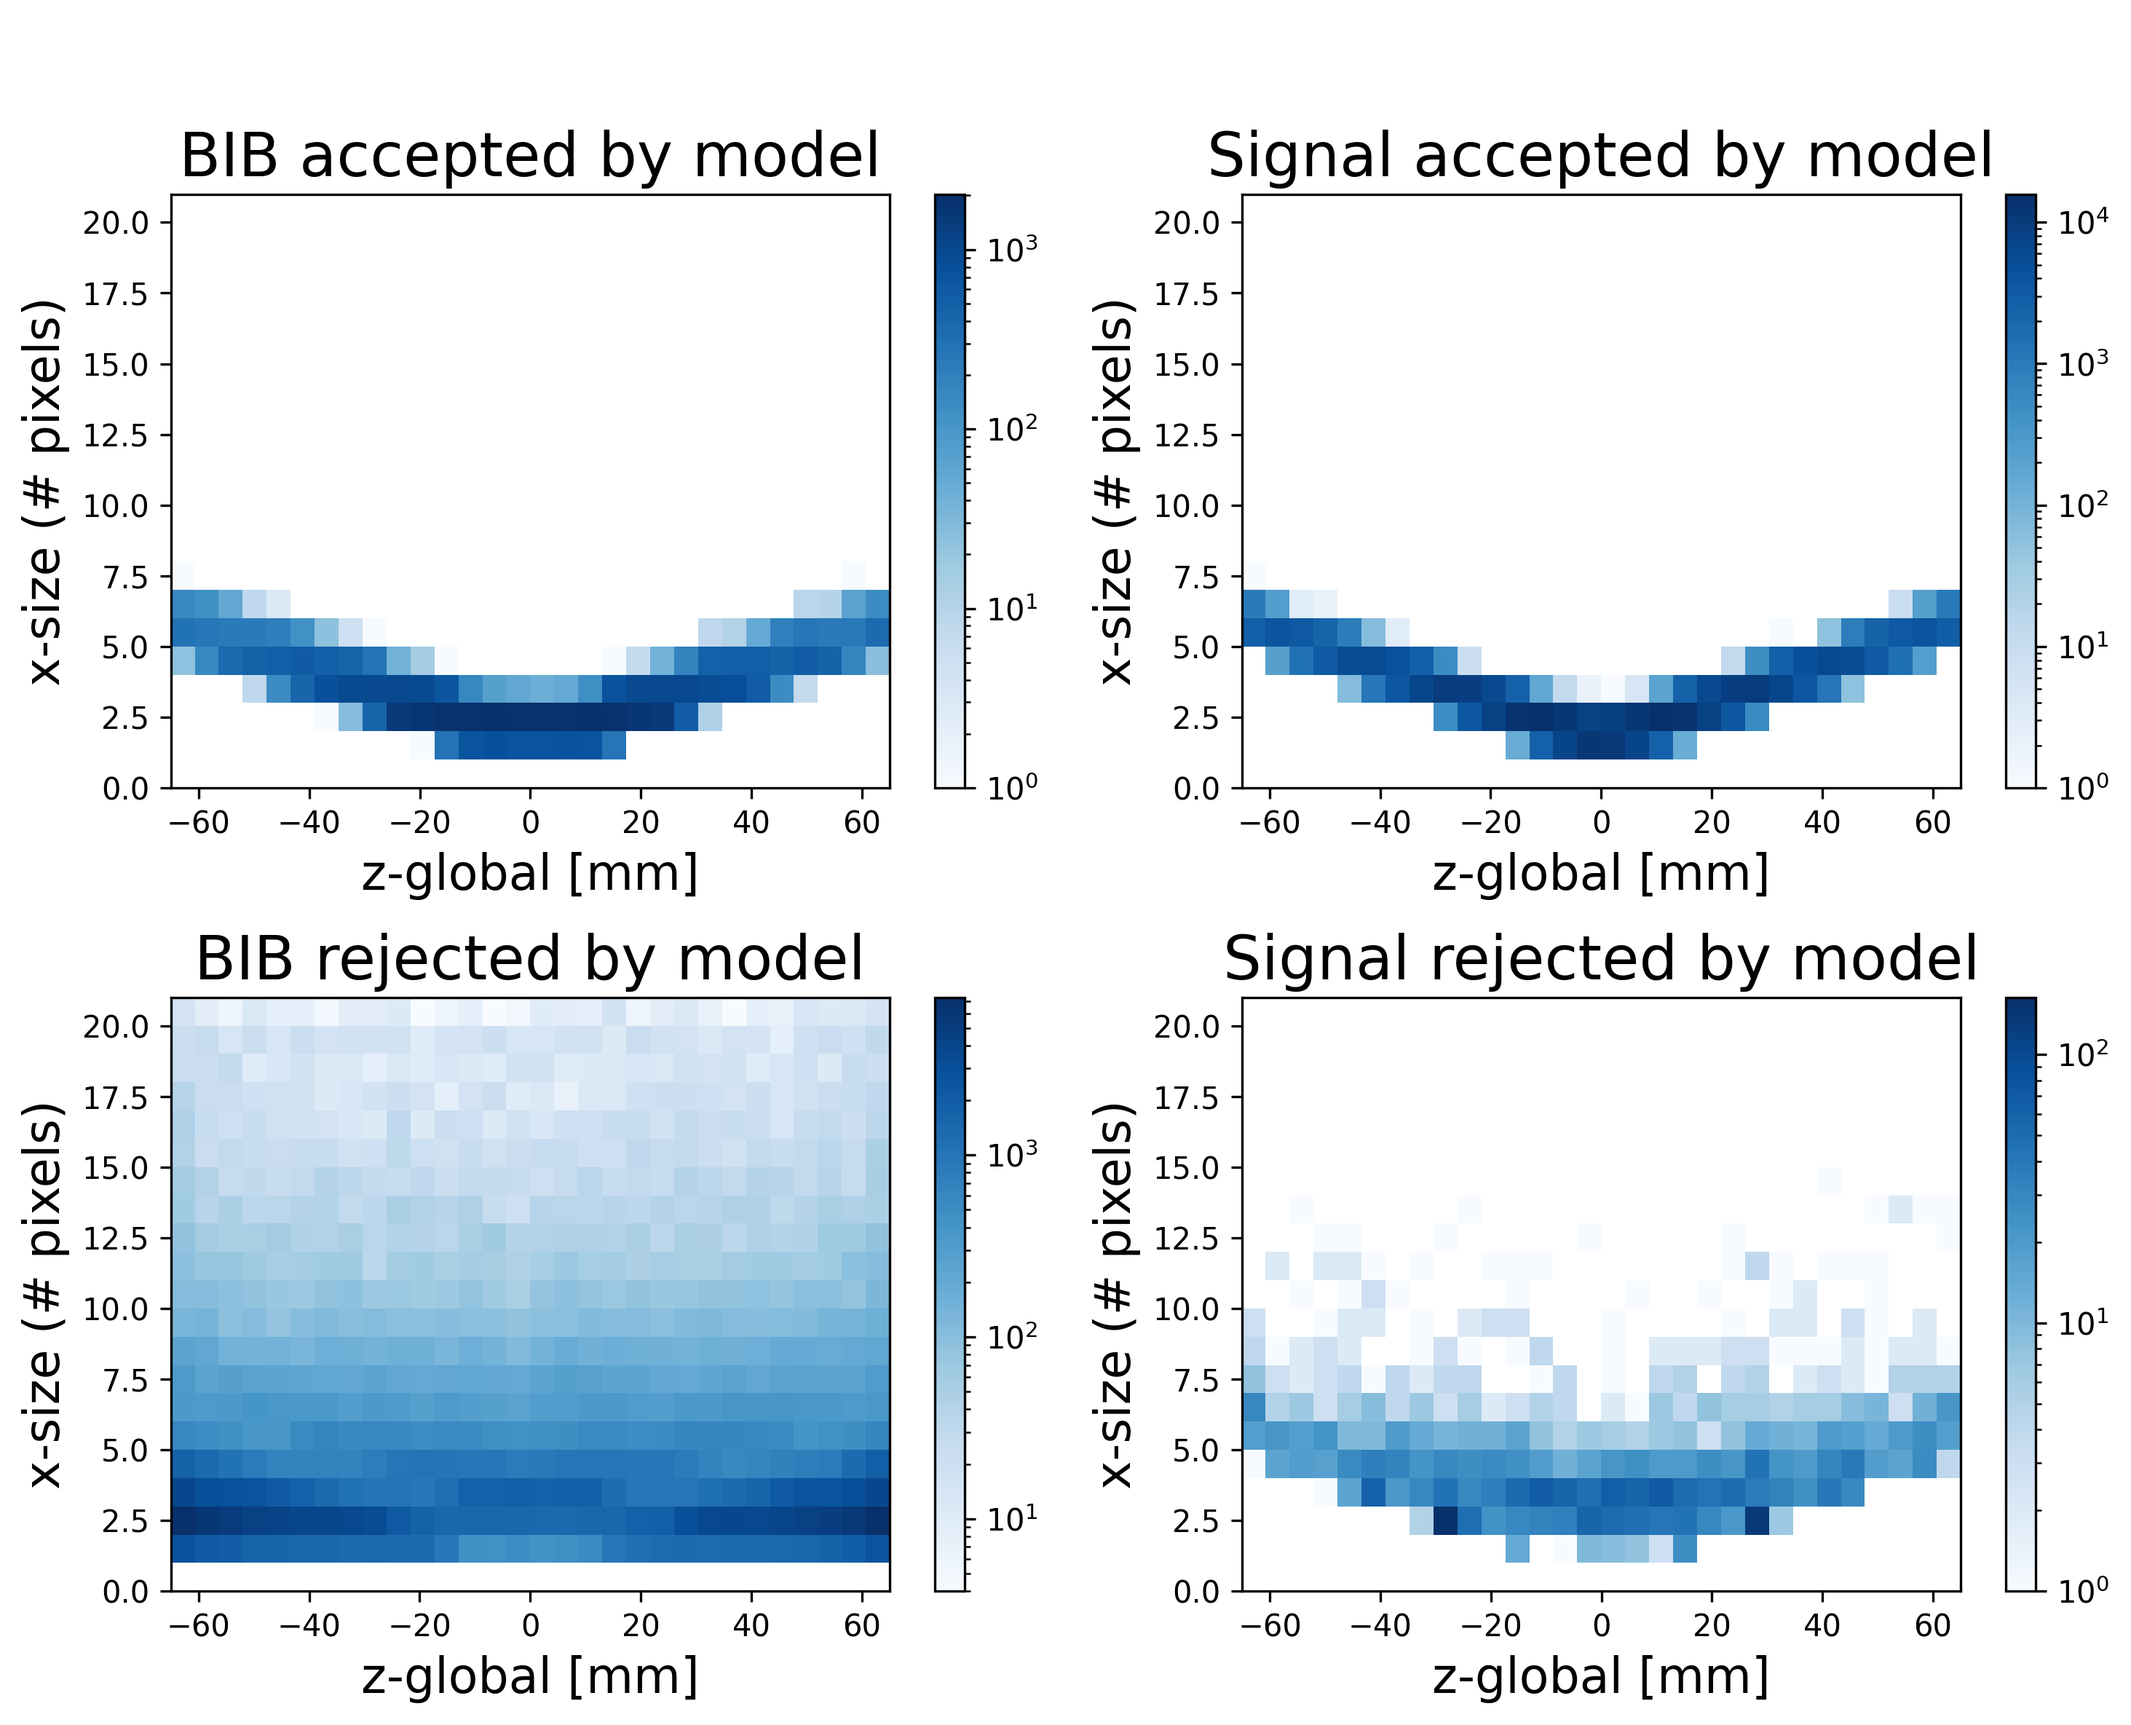
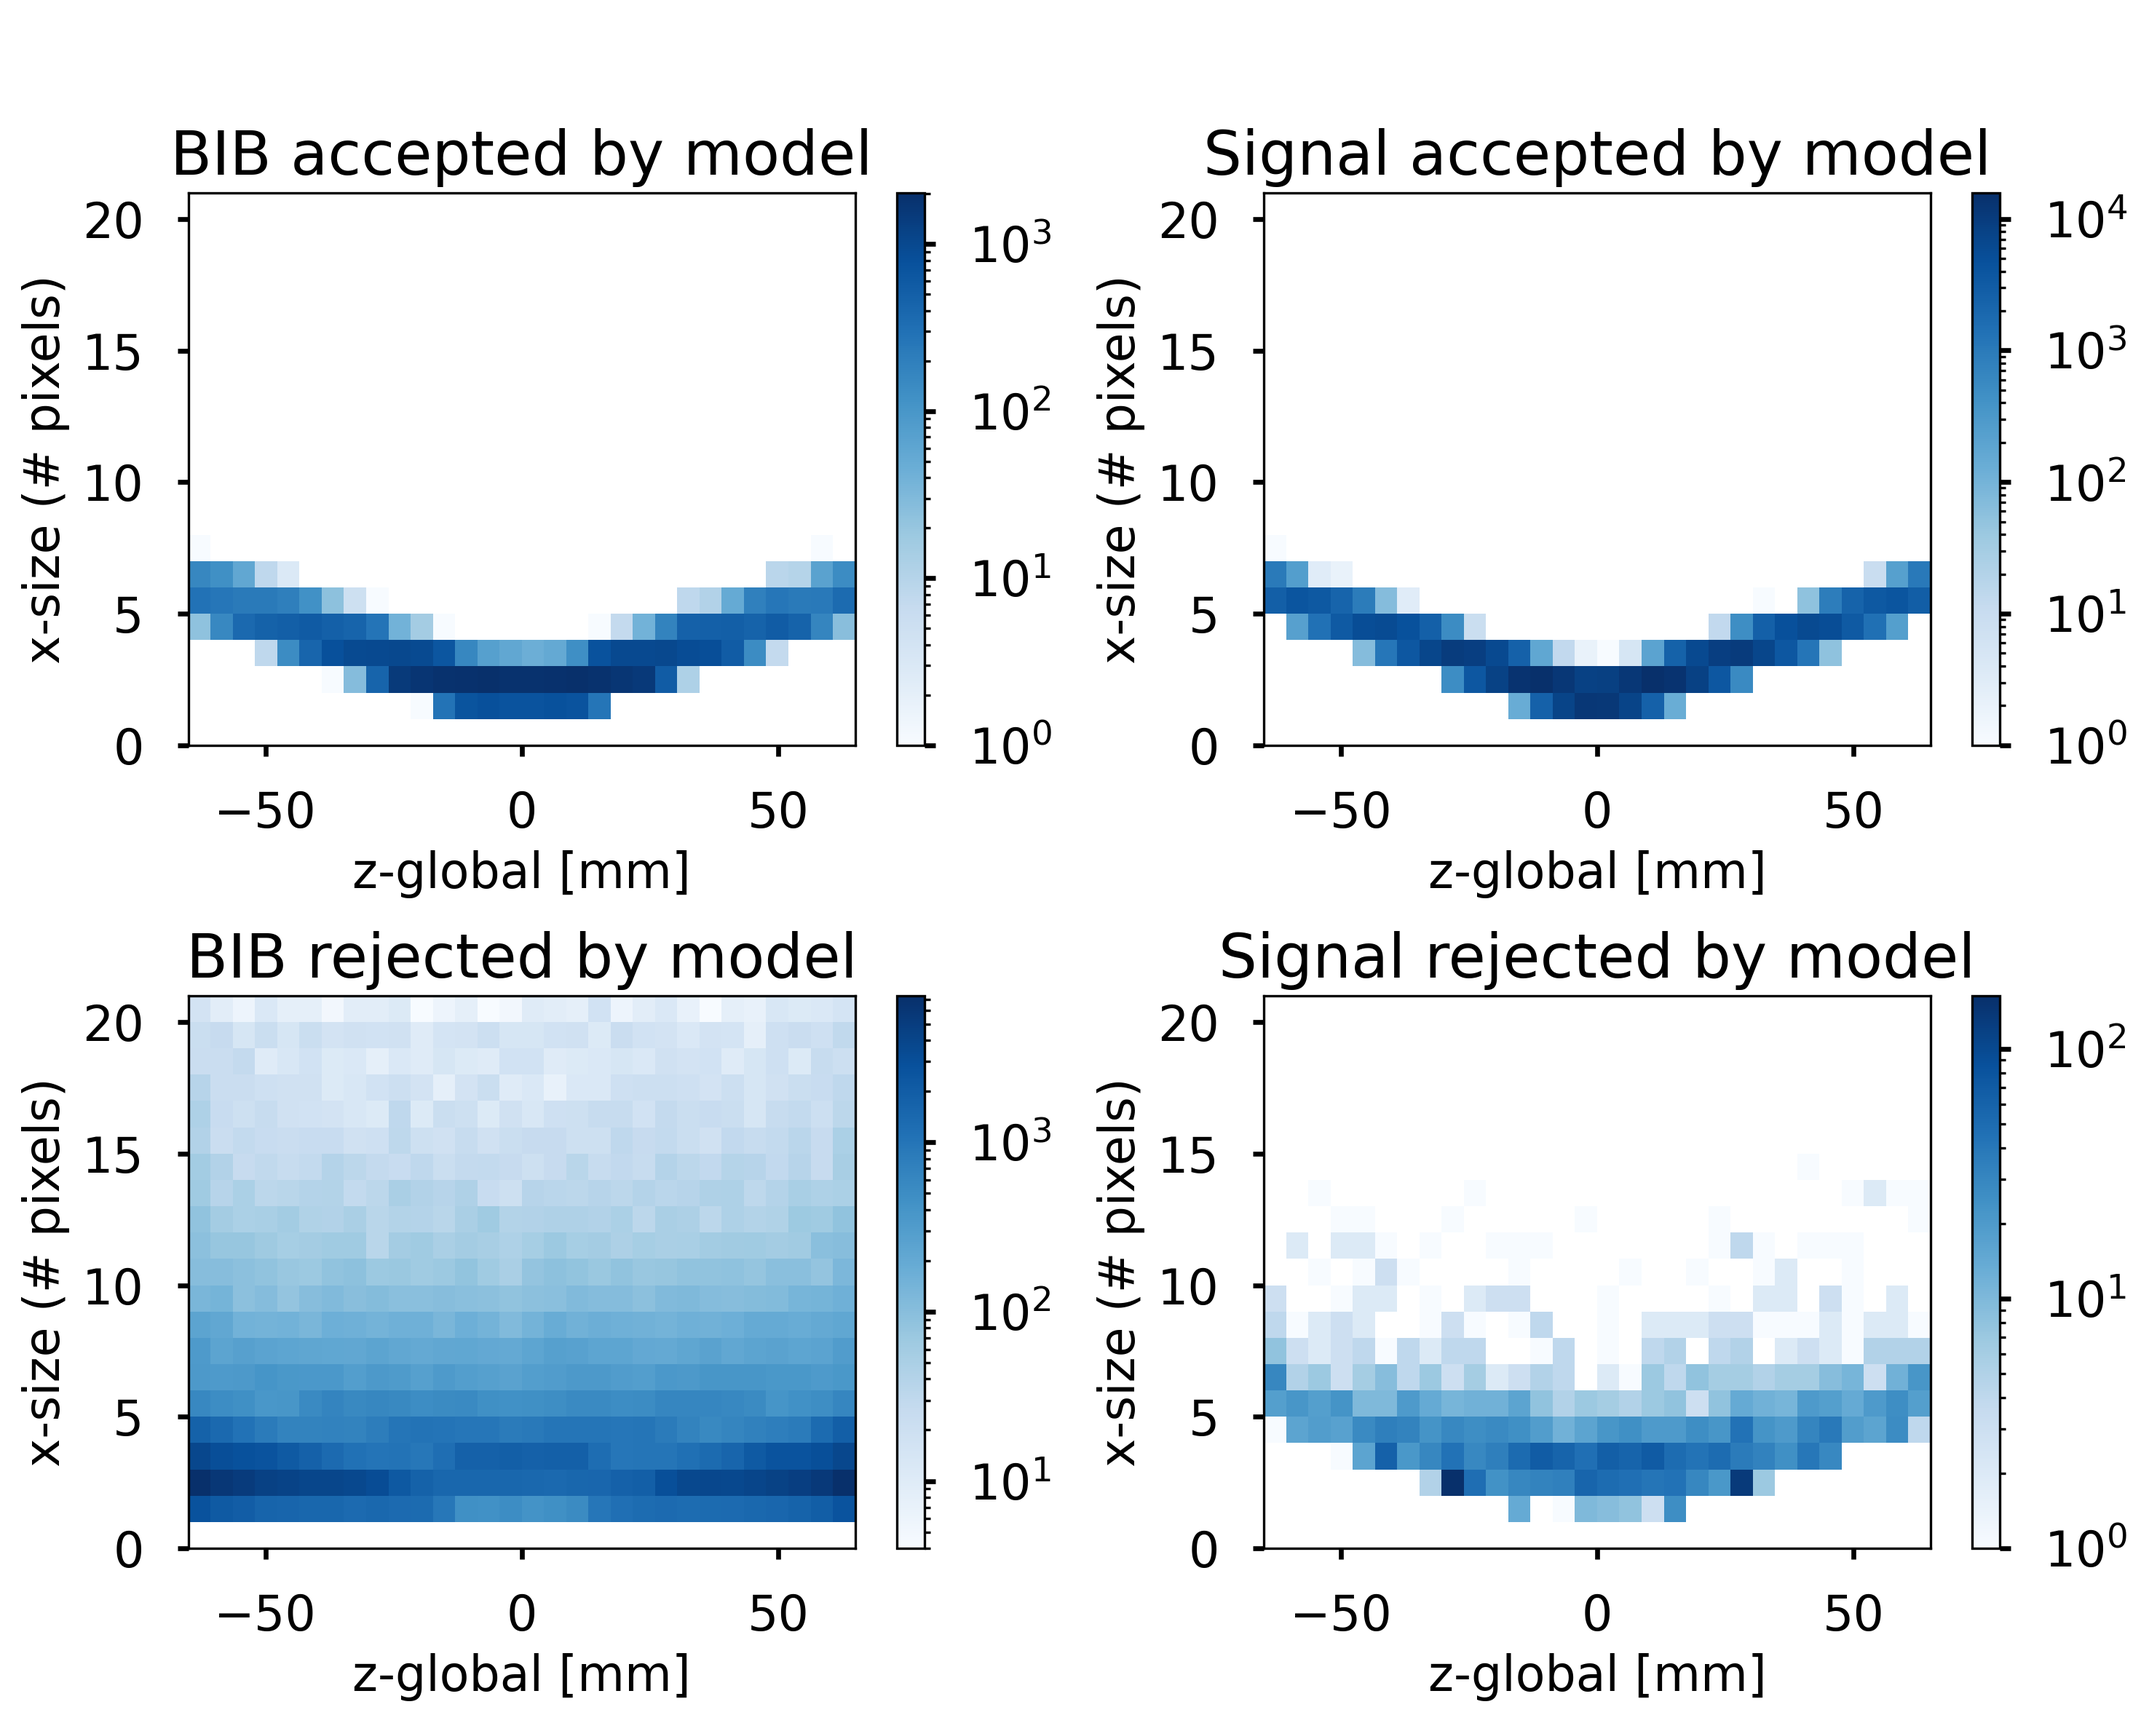
Moved the evaluation plots to seaborn poster even though it's bad
I think it looks worse like this, so may undo this commit in future
but Karri asked for seaborn-poster so here is seaborn-poster

Changed region(s): [[0.0, 0.0617, 0.9949, 0.9869], [0.3109, 0.7093, 0.342, 0.7402], [0.2176, 0.6785, 0.2487, 0.7093]]

diff --git a/paperPlots/predictionPlotter.py b/paperPlots/predictionPlotter.py
@@ -24,6 +24,7 @@ import matplotlib
 PLOT_DIR = "./evaluationPlots"
 interactivePlots = False
 styleSheet = "seaborn-v0_8-colorblind"
+styleSheet = "seaborn-v0_8-poster"
 plt.style.use(styleSheet)
 N_CPU = 1
 loadPredVarPkl = True #if true then load based on saved pkls, if false regenerate the predVarDF and save new pkls
@@ -71,8 +72,8 @@ def plotAll1dHists(predVarDF,threshVal,pltDir):
     print(predVarDF.keys())
     if "adjusted_hit_time_30ps_gaussian" in predVarDF.keys():
         histoKarri(predVarDF,threshVal,pltDir,key="adjusted_hit_time_30ps_gaussian",keyLabel="Cluster Hit Arrival Time [ns]",figsize=(5,10),bins=100)
-        histoKarri(predVarDF,threshVal,pltDir,key="adjusted_hit_time_30ps_gaussian",keyLabel="Cluster Hit Arrival Time [ns]",figsize=(4,3),bins=100,plotAll=False,plotSig=False,extendSaveTitle="paperVersion",bibTitle="")
-    histoKarri(predVarDF,threshVal,pltDir,key="z-global",keyLabel="z-global [mm]",figsize=(4,3),bins=100,plotAll=False,plotSig = False,extendSaveTitle="paperVersion",bibTitle="")
+        histoKarri(predVarDF,threshVal,pltDir,key="adjusted_hit_time_30ps_gaussian",keyLabel="Cluster Hit Arrival Time [ns]",figsize=(7,5),bins=100,plotAll=False,plotSig=False,extendSaveTitle="paperVersion",bibTitle="")
+    histoKarri(predVarDF,threshVal,pltDir,key="z-global",keyLabel="z-global [mm]",figsize=(7,5),bins=100,plotAll=False,plotSig = False,extendSaveTitle="paperVersion",bibTitle="")
     histoKarri(predVarDF,threshVal,pltDir,key="z-global",keyLabel="z-global [mm]",figsize=(5,10),bins=100)
     histoKarri(predVarDF,threshVal,pltDir,key="pt",keyLabel=r"Transverse Momentum $p_T$ [GeV/c]",figsize=(5,10),bins=100)
     histoKarri(predVarDF,threshVal,pltDir,key="y-local",keyLabel="y-local [mm] aaaaah I can't find a good binnning",figsize=(5,10),bins=25)
@@ -80,7 +81,7 @@ def plotAll1dHists(predVarDF,threshVal,pltDir):
     histoKarri(predVarDF,threshVal,pltDir,key="ySize",keyLabel="y-Size [# pixels]",bins=np.arange(0,14,1),figsize=(5,11),locLegend="upper right")
     histoKarri(predVarDF,threshVal,pltDir,key="nModule",keyLabel="Module Number (longitudinally counted)",bins=12,figsize=(5,10))
     histoKarri(predVarDF,threshVal,pltDir,key="nPix",keyLabel="Number of Pixels",bins=np.arange(0,np.max(predVarDF["nPix"]),1),figsize=(5,10),locLegend="upper right")
-    histoKarri(predVarDF,threshVal,pltDir,key="nPix",keyLabel="Number of Pixels",bins=np.arange(0,np.max(predVarDF["nPix"]),1),figsize=(5,4),locLegend="upper right",plotAll = False,extendSaveTitle="paperVersion")
+    histoKarri(predVarDF,threshVal,pltDir,key="nPix",keyLabel="Number of Pixels",bins=np.arange(0,np.max(predVarDF["nPix"]),1),figsize=(9,7),locLegend="upper right",plotAll = False,extendSaveTitle="paperVersion")
     print("finished 1d histograms")
 
 def plotNew2by2(predVarDF, threshVal, pltDir,interactivePlots = False,extendTitle = "",cmap="Blues",figsize=(10,8)):
